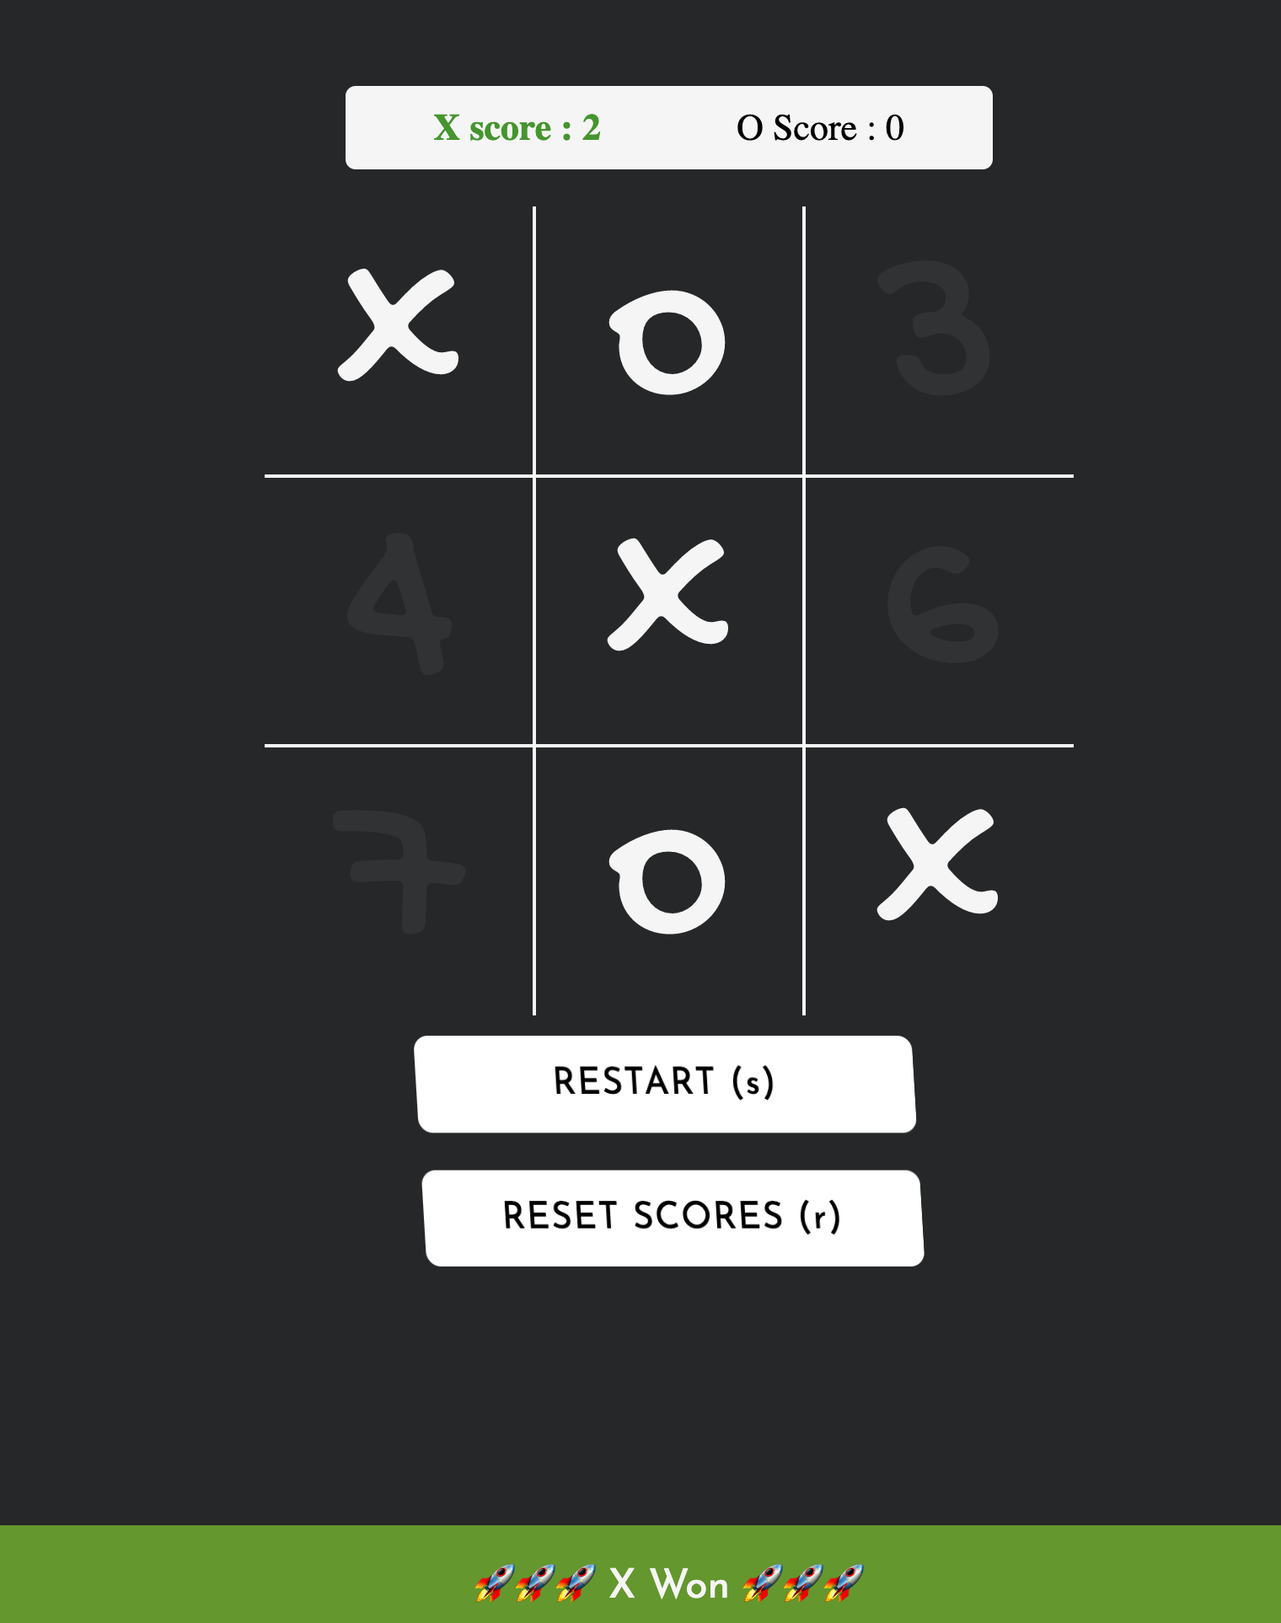
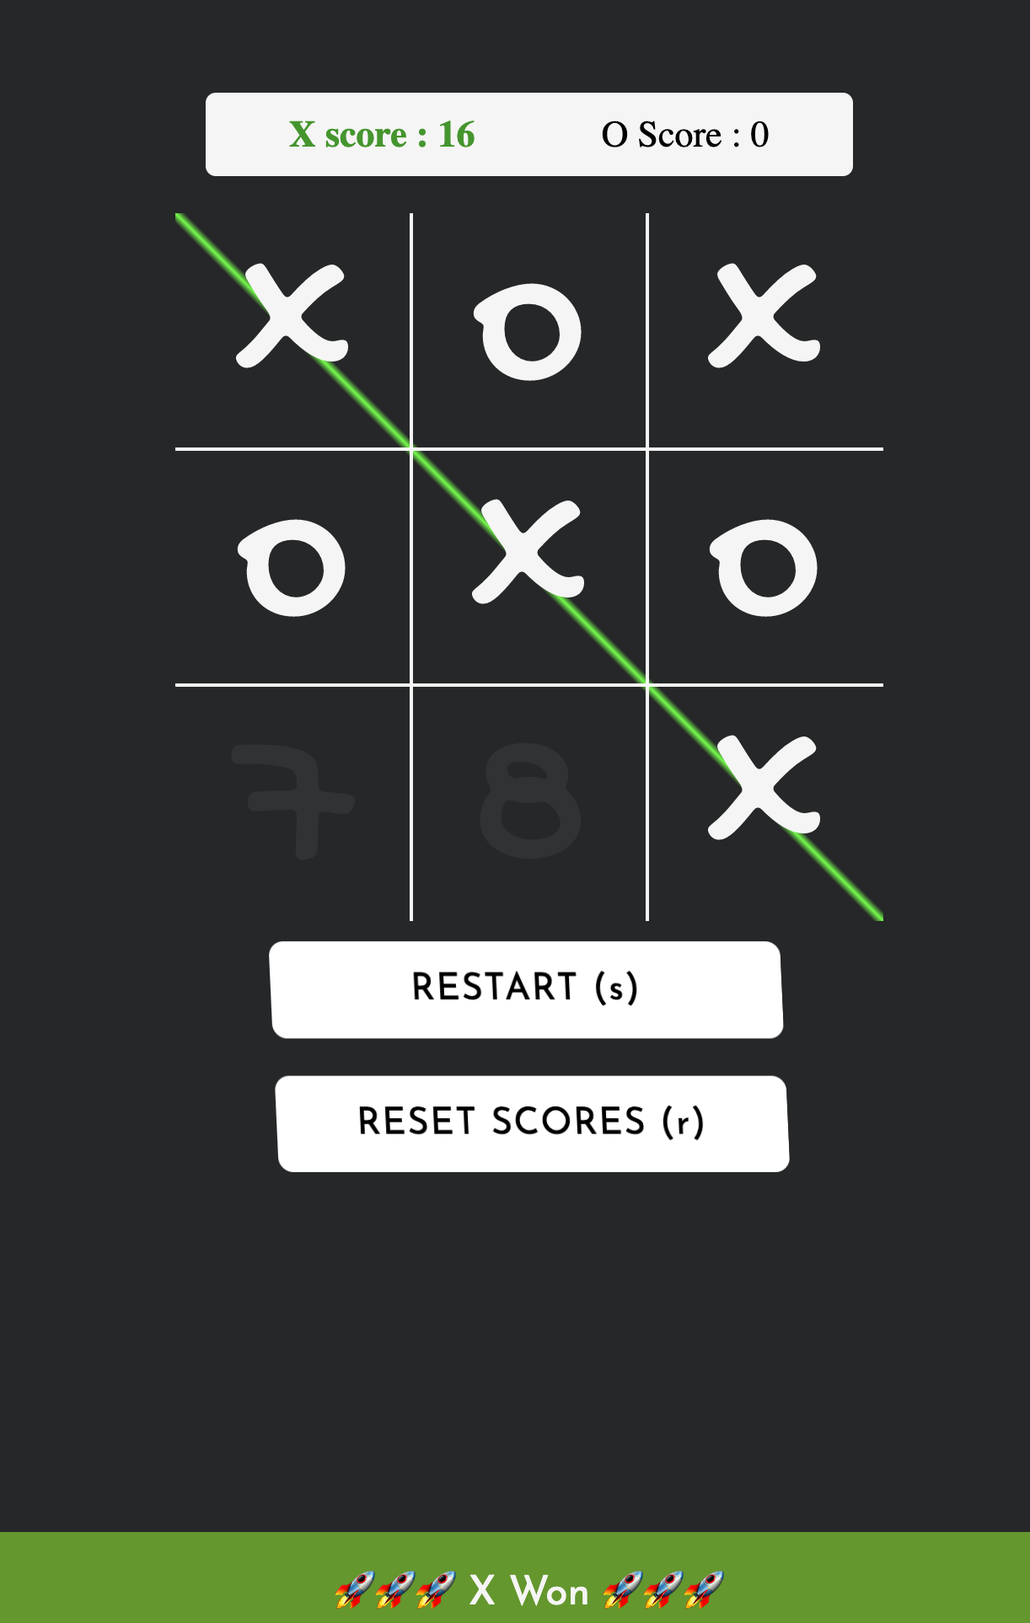
fixed cross line bug

diff --git a/docs/js/app.530d15ed.js b/docs/js/app.530d15ed.js
@@ -1,0 +1,2 @@
+(function(e){function t(t){for(var s,i,o=t[0],a=t[1],u=t[2],d=0,f=[];d<o.length;d++)i=o[d],Object.prototype.hasOwnProperty.call(r,i)&&r[i]&&f.push(r[i][0]),r[i]=0;for(s in a)Object.prototype.hasOwnProperty.call(a,s)&&(e[s]=a[s]);l&&l(t);while(f.length)f.shift()();return c.push.apply(c,u||[]),n()}function n(){for(var e,t=0;t<c.length;t++){for(var n=c[t],s=!0,o=1;o<n.length;o++){var a=n[o];0!==r[a]&&(s=!1)}s&&(c.splice(t--,1),e=i(i.s=n[0]))}return e}var s={},r={app:0},c=[];function i(t){if(s[t])return s[t].exports;var n=s[t]={i:t,l:!1,exports:{}};return e[t].call(n.exports,n,n.exports,i),n.l=!0,n.exports}i.m=e,i.c=s,i.d=function(e,t,n){i.o(e,t)||Object.defineProperty(e,t,{enumerable:!0,get:n})},i.r=function(e){"undefined"!==typeof Symbol&&Symbol.toStringTag&&Object.defineProperty(e,Symbol.toStringTag,{value:"Module"}),Object.defineProperty(e,"__esModule",{value:!0})},i.t=function(e,t){if(1&t&&(e=i(e)),8&t)return e;if(4&t&&"object"===typeof e&&e&&e.__esModule)return e;var n=Object.create(null);if(i.r(n),Object.defineProperty(n,"default",{enumerable:!0,value:e}),2&t&&"string"!=typeof e)for(var s in e)i.d(n,s,function(t){return e[t]}.bind(null,s));return n},i.n=function(e){var t=e&&e.__esModule?function(){return e["default"]}:function(){return e};return i.d(t,"a",t),t},i.o=function(e,t){return Object.prototype.hasOwnProperty.call(e,t)},i.p="https://ozkanozdemir.github.io/tic-tac-toe-with-vue3/";var o=window["webpackJsonp"]=window["webpackJsonp"]||[],a=o.push.bind(o);o.push=t,o=o.slice();for(var u=0;u<o.length;u++)t(o[u]);var l=a;c.push([0,"chunk-vendors"]),n()})({0:function(e,t,n){e.exports=n("56d7")},"0f67":function(e,t,n){},"118f":function(e,t,n){"use strict";n("d70c")},"14f6":function(e,t,n){},"1eda":function(e,t,n){},"490a":function(e,t,n){"use strict";n("1eda")},"4c69":function(e,t,n){"use strict";n("14f6")},"56d7":function(e,t,n){"use strict";n.r(t);n("e260"),n("e6cf"),n("cca6"),n("a79d"),n("d3b7"),n("caad"),n("25f0");var s=n("7a23"),r=n("5502");function c(e,t,n,r,c,i){var o=Object(s["q"])("Game");return Object(s["k"])(),Object(s["c"])(o)}var i={class:"game"},o={class:"button-container"},a=Object(s["g"])(" RESET SCORES (r) ");function u(e,t,n,r,c,u){var l=Object(s["q"])("Help"),d=Object(s["q"])("Scores"),f=Object(s["q"])("Board"),g=Object(s["q"])("Message"),O=Object(s["q"])("IButton");return Object(s["k"])(),Object(s["e"])("div",i,[Object(s["h"])(l),Object(s["h"])(d),Object(s["h"])(f),Object(s["h"])(g),Object(s["f"])("div",o,[!e.started||e.finished?(Object(s["k"])(),Object(s["c"])(O,{key:0,onClick:e.startGame},{default:Object(s["t"])((function(){return[Object(s["g"])(Object(s["r"])(e.finished?"RESTART":"START")+" (s) ",1)]})),_:1},8,["onClick"])):Object(s["d"])("",!0),!e.started||e.finished?(Object(s["k"])(),Object(s["c"])(O,{key:1,onClick:e.resetScores},{default:Object(s["t"])((function(){return[a]})),_:1},8,["onClick"])):Object(s["d"])("",!0)])])}var l=n("5530"),d=(n("4de4"),n("d81d"),n("2532"),n("2909")),f=(n("ddb0"),["onClick"]),g=["data-number"];function O(e,t,n,r,c,i){return Object(s["k"])(),Object(s["e"])("div",{class:Object(s["j"])(["board",e.crossClass])},[(Object(s["k"])(!0),Object(s["e"])(s["a"],null,Object(s["o"])(Object(d["a"])(Array(9).keys()),(function(e){return Object(s["k"])(),Object(s["e"])("div",{class:"cell",key:e,onClick:function(t){return i.cellClicked(e)}},[Object(s["f"])("span",null,Object(s["r"])(i.getCellSign(e)),1),Object(s["f"])("div",{class:"cell-number","data-number":e+1},null,8,g)],8,f)})),128))],2)}n("7db0");var b={name:"Board",data:function(){return{processing:!1}},computed:Object(l["a"])({},Object(r["c"])(["cells","finished","crossClass","sign","signO","signX","started"])),methods:Object(l["a"])(Object(l["a"])({},Object(r["b"])(["addCell","setSign"])),{},{cellClicked:function(e){var t=this;if(this.started&&!this.finished&&!this.processing){var n=this.cells.find((function(t){return t.order===e}));n||(this.processing=!0,this.addCell({order:e,sign:this.sign}),this.setSign(this.sign===this.signX?this.signO:this.signX),setTimeout((function(){t.processing=!1}),333))}},getCellSign:function(e){var t=this.cells.find((function(t){return t.order===e}));return t?t.sign:""}}),mounted:function(){var e=this;document.addEventListener("keydown",(function(t){var n=parseInt(t.key);n>0&&n<10&&e.cellClicked(n-1)}))}},m=(n("8f28"),n("6b0d")),h=n.n(m);const j=h()(b,[["render",O],["__scopeId","data-v-1519ca62"]]);var S=j;function p(e,t,n,r,c,i){return e.message?(Object(s["k"])(),Object(s["e"])("div",{key:0,class:Object(s["j"])(["message",{"bg-danger":"danger"===e.messageStatus,"bg-success":"success"===e.messageStatus}])},Object(s["r"])(e.message),3)):Object(s["d"])("",!0)}var v={name:"Message",computed:Object(l["a"])({},Object(r["c"])(["message","messageStatus"]))};n("e7de");const k=h()(v,[["render",p],["__scopeId","data-v-3148eeca"]]);var C=k,y={class:"scores"};function w(e,t,n,r,c,i){return Object(s["k"])(),Object(s["e"])("div",y,[Object(s["f"])("span",{class:Object(s["j"])({active:e.sign===e.signX})}," X score : "+Object(s["r"])(e.xScore),3),Object(s["f"])("span",{class:Object(s["j"])({active:e.sign===e.signO})}," O Score : "+Object(s["r"])(e.oScore),3)])}var M={name:"Scores",computed:Object(l["a"])({},Object(r["c"])(["xScore","oScore","sign","signX","signO"]))};n("f02e");const x=h()(M,[["render",w],["__scopeId","data-v-1fd18ba4"]]);var X=x,_=function(e){return Object(s["m"])("data-v-765e3ba2"),e=e(),Object(s["l"])(),e},I={class:"help"},G=_((function(){return Object(s["f"])("svg",{xmlns:"http://www.w3.org/2000/svg",class:"h-6 w-6",fill:"none",viewBox:"0 0 24 24",stroke:"currentColor","stroke-width":"2"},[Object(s["f"])("path",{"stroke-linecap":"round","stroke-linejoin":"round",d:"M13 16h-1v-4h-1m1-4h.01M21 12a9 9 0 11-18 0 9 9 0 0118 0z"})],-1)})),T=_((function(){return Object(s["f"])("div",{class:"help-text"}," You can use the number keys on the keyboard while playing. ",-1)})),W=[G,T];function B(e,t,n,r,c,i){return Object(s["k"])(),Object(s["e"])("div",I,W)}var F={name:"Help"};n("4c69");const P=h()(F,[["render",B],["__scopeId","data-v-765e3ba2"]]);var q=P;function E(e,t,n,r,c,i){return Object(s["k"])(),Object(s["e"])("button",null,[Object(s["p"])(e.$slots,"default")])}var R={name:"IButton"};n("9aa2");const A=h()(R,[["render",E]]);var z=A,H={name:"Game",components:{Board:S,Help:q,IButton:z,Message:C,Scores:X},watch:{cells:{handler:function(e){var t=this,n=e.filter((function(e){return e.sign===t.signX})),s=n.map((function(e){return e.order})),r=e.filter((function(e){return e.sign===t.signO})),c=r.map((function(e){return e.order}));this.winnerControl(s)?(this.setMessage("🚀🚀🚀 X Won 🚀🚀🚀"),this.setMessageStatus("success"),this.setFinished(!0),this.setSign(this.signX),this.incrementXScore()):this.winnerControl(c)?(this.setMessage("🚀🚀🚀 O Won 🚀🚀🚀"),this.setMessageStatus("success"),this.setFinished(!0),this.setSign(this.signO),this.incrementOScore()):e.length>=9&&(this.setMessage("Game Over. Nobody Won..."),this.setMessageStatus("danger"),this.setFinished(!0))},deep:!0}},computed:Object(l["a"])({},Object(r["c"])(["cells","started","finished","signX","signO","winningOrder","winningOrders"])),methods:Object(l["a"])(Object(l["a"])({},Object(r["b"])(["incrementOScore","incrementXScore","resetScores","setCrossClass","setFinished","setMessage","setMessageStatus","setSign","setWinningOrder","startGame","winnerControl"])),{},{winnerControl:function(e){var t=this;return this.winningOrders.some((function(n){var s=n.every((function(t){return e.includes(t)}));return s&&(console.log("1",n),t.setWinningOrder(n)),s}))}}),mounted:function(){var e=this;document.addEventListener("keydown",(function(t){"r"===t.key?e.resetScores():"s"===t.key&&e.startGame()}))}};n("490a");const J=h()(H,[["render",u],["__scopeId","data-v-420765c4"]]);var L=J,N={name:"App",components:{Game:L}};n("118f");const Y=h()(N,[["render",c]]);var $=Y,D=Object(r["a"])({state:function(){return{cells:[],crossClass:{},finished:!1,message:"",oScore:parseInt(localStorage.getItem("oScore")||0),messageStatus:"danger",sign:"x",signO:"o",signX:"x",started:!1,winningOrder:[],winningOrders:[[0,1,2],[3,4,5],[6,7,8],[0,3,6],[1,4,7],[2,5,8],[0,4,8],[2,4,6]],xScore:parseInt(localStorage.getItem("xScore")||0)}},getters:{cells:function(e){return e.cells},crossClass:function(e){var t=e.winningOrder;return t&&t.length>0?{"cross-line-012":t.every((function(e){return[0,1,2].includes(e)})),"cross-line-345":t.every((function(e){return[3,4,5].includes(e)})),"cross-line-678":t.every((function(e){return[6,7,8].includes(e)})),"cross-line-036":t.every((function(e){return[0,3,6].includes(e)})),"cross-line-147":t.every((function(e){return[1,4,7].includes(e)})),"cross-line-258":t.every((function(e){return[2,5,8].includes(e)})),"cross-line-048":t.every((function(e){return[0,4,8].includes(e)})),"cross-line-246":t.every((function(e){return[2,4,6].includes(e)}))}:{}},finished:function(e){return e.finished},message:function(e){return e.message},oScore:function(e){return e.oScore},messageStatus:function(e){return e.messageStatus},sign:function(e){return e.sign},signO:function(e){return e.signO},signX:function(e){return e.signX},started:function(e){return e.started},winningOrder:function(e){return e.winningOrder},winningOrders:function(e){return e.winningOrders},xScore:function(e){return e.xScore}},mutations:{addCell:function(e,t){e.cells.push(t)},cellClicked:function(e,t){e.started&&!e.finished&&(e.cells.push({order:t,sign:e.sign}),e.sign=e.sign===e.signX?e.signO:e.signX)},incrementOScore:function(e){e.oScore++,localStorage.setItem("oScore",e.oScore.toString())},incrementXScore:function(e){e.xScore++,localStorage.setItem("xScore",e.xScore.toString())},resetScores:function(e){e.oScore=0,e.xScore=0,localStorage.setItem("oScore","0"),localStorage.setItem("xScore","0")},setCrossClass:function(e,t){e.crossClass=t},setFinished:function(e,t){e.finished=t},setMessage:function(e,t){e.message=t},setMessageStatus:function(e,t){e.messageStatus=t},setSign:function(e,t){e.sign=t},setWinningOrder:function(e,t){console.log("2",t),e.winningOrder=t},startGame:function(e){e.message="",e.sign=e.signX,e.started=!0,e.finished=!1,e.winningOrder=[],e.crossClass={},e.cells=[]}},actions:{addCell:function(e,t){e.commit("addCell",t)},cellClicked:function(e,t){e.commit("cellClicked",t)},getCellSign:function(e,t){e.commit("getCellSign",t)},incrementOScore:function(e){e.commit("incrementOScore")},incrementXScore:function(e){e.commit("incrementXScore")},resetScores:function(e){e.commit("resetScores")},setCrossClass:function(e,t){e.commit("setCrossClass",t)},setFinished:function(e,t){e.commit("setFinished",t)},setMessage:function(e,t){e.commit("setMessage",t)},setMessageStatus:function(e,t){e.commit("setMessageStatus",t)},setSign:function(e,t){e.commit("setSign",t)},setWinningOrder:function(e,t){e.commit("setWinningOrder",t)},startGame:function(e){e.commit("startGame")},winnerControl:function(e,t){e.commit("winnerControl",t)}}}),K=Object(s["b"])($);K.use(D),K.mount("#app")},"59d9":function(e,t,n){},"8f28":function(e,t,n){"use strict";n("0f67")},"9aa2":function(e,t,n){"use strict";n("b8b1")},b19c:function(e,t,n){},b8b1:function(e,t,n){},d70c:function(e,t,n){},e7de:function(e,t,n){"use strict";n("59d9")},f02e:function(e,t,n){"use strict";n("b19c")}});
+//# sourceMappingURL=app.530d15ed.js.map

diff --git a/docs/css/app.bb10e1e5.css b/docs/css/app.bb10e1e5.css
@@ -1,0 +1,1 @@
+@import url(https://fonts.googleapis.com/css2?family=Gochi+Hand&display=swap);@import url(https://fonts.googleapis.com/css2?family=Josefin+Sans:wght@400;700&display=swap);.board[data-v-1519ca62]{display:flex;flex-direction:row;flex-wrap:wrap;width:420px;height:420px;overflow:hidden;position:relative}.cell[data-v-1519ca62]{position:relative;font-family:Gochi Hand,cursive;width:140px;height:140px;outline:1px solid #f5f5f5;cursor:pointer;display:flex;justify-content:center;align-items:center;font-size:130px;color:#f5f5f5}.cell-number[data-v-1519ca62]{position:absolute;width:100%;height:100%}.cell span:empty+.cell-number[data-v-1519ca62]:after{display:flex;justify-content:center;content:attr(data-number);color:hsla(0,0%,100%,.05)}.cross-line[data-v-1519ca62]{z-index:999;position:absolute;width:100%;height:100%}.cross-line-012[data-v-1519ca62]{background:linear-gradient(180deg,transparent calc(16% - 4px),#0f0,transparent calc(16% + 4px))}.cross-line-345[data-v-1519ca62]{background:linear-gradient(0deg,transparent calc(50% - 4px),#0f0,transparent calc(50% + 4px))}.cross-line-678[data-v-1519ca62]{background:linear-gradient(0deg,transparent calc(16% - 4px),#0f0,transparent calc(16% + 4px))}.cross-line-036[data-v-1519ca62]{background:linear-gradient(90deg,transparent calc(16% - 4px),#0f0,transparent calc(16% + 4px))}.cross-line-147[data-v-1519ca62]{background:linear-gradient(270deg,transparent calc(50% - 4px),#0f0,transparent calc(50% + 4px))}.cross-line-258[data-v-1519ca62]{background:linear-gradient(270deg,transparent calc(16% - 4px),#0f0,transparent calc(16% + 4px))}.cross-line-048[data-v-1519ca62]{background:linear-gradient(to top right,transparent calc(50% - 4px),#0f0,transparent calc(50% + 4px))}.cross-line-246[data-v-1519ca62]{background:linear-gradient(to top left,transparent calc(50% - 4px),#0f0,transparent calc(50% + 4px))}.message[data-v-3148eeca]{width:100%;display:flex;justify-content:center;align-items:center;bottom:0;position:fixed;padding:16px;font-size:24px;font-family:Josefin Sans,sans-serif;font-weight:400;color:#f5f5f5;line-height:42px}.bg-danger[data-v-3148eeca]{background-color:#ff1731}.bg-success[data-v-3148eeca]{background-color:#529a08}.scores[data-v-1fd18ba4]{display:flex;justify-content:space-around;width:360px;padding:12px;background-color:#f5f5f5;margin-bottom:22px;font-size:22px;border-radius:6px}.scores .active[data-v-1fd18ba4]{cursor:default;color:#0e980e;font-weight:700}.help[data-v-765e3ba2]{position:absolute;left:-4px;top:0;width:36px;height:36px;background-color:#f5f5f5;border-radius:6px;padding:6px;cursor:pointer;overflow:hidden}.help svg[data-v-765e3ba2]{width:36px;height:36px}.help[data-v-765e3ba2]:active,.help[data-v-765e3ba2]:hover{color:#ff1731;width:100%;display:flex}.help-text[data-v-765e3ba2]{margin:6 24px;width:100%;display:flex;justify-content:center;align-items:center;font-size:20px;font-family:Josefin Sans,sans-serif}.button-container{display:flex;flex-direction:column;transform:rotatex(10deg);-webkit-animation:rotateAngle 4s linear infinite;animation:rotateAngle 4s linear infinite}button{font-family:Josefin Sans,sans-serif;display:block;position:relative;margin:.5em 0;padding:.8em 2.2em;cursor:pointer;background:#fff;border:none;border-radius:.4em;font-size:1.4em;font-weight:500;letter-spacing:.04em;mix-blend-mode:color-dodge;perspective:500px;transform-style:preserve-3d}button:after,button:before{--z:0px;position:absolute;top:0;left:0;display:block;content:"";width:100%;height:100%;opacity:0;mix-blend-mode:inherit;border-radius:inherit;transform-style:preserve-3d;transform:translate3d(calc(var(--z)*0px),calc(var(--z)*0px),calc(var(--z)*0px))}button span{mix-blend-mode:none;display:block}button:after{background-color:#5d00ff}button:before{background-color:#ff1731}button:hover{background-color:#fff65b;transition:background .3s .1s}button:hover:before{--z:0.04}button:hover:after,button:hover:before{-webkit-animation:translateWobble 2.2s ease forwards;animation:translateWobble 2.2s ease forwards}button:hover:after{--z:-0.06}@-webkit-keyframes rotateAngle{0%{transform:rotateY(0deg) rotateX(10deg);-webkit-animation-timing-function:cubic-bezier(.61,1,.88,1);animation-timing-function:cubic-bezier(.61,1,.88,1)}25%{transform:rotateY(20deg) rotateX(10deg)}50%{transform:rotateY(0deg) rotateX(10deg);-webkit-animation-timing-function:cubic-bezier(.61,1,.88,1);animation-timing-function:cubic-bezier(.61,1,.88,1)}75%{transform:rotateY(-20deg) rotateX(10deg)}to{transform:rotateY(0deg) rotateX(10deg)}}@keyframes rotateAngle{0%{transform:rotateY(0deg) rotateX(10deg);-webkit-animation-timing-function:cubic-bezier(.61,1,.88,1);animation-timing-function:cubic-bezier(.61,1,.88,1)}25%{transform:rotateY(20deg) rotateX(10deg)}50%{transform:rotateY(0deg) rotateX(10deg);-webkit-animation-timing-function:cubic-bezier(.61,1,.88,1);animation-timing-function:cubic-bezier(.61,1,.88,1)}75%{transform:rotateY(-20deg) rotateX(10deg)}to{transform:rotateY(0deg) rotateX(10deg)}}@-webkit-keyframes translateWobble{0%{opacity:0;transform:translate3d(calc(var(--z)*0px),calc(var(--z)*0px),calc(var(--z)*0px))}16%{transform:translate3d(calc(var(--z)*160px),calc(var(--z)*160px),calc(var(--z)*160px))}28%{opacity:1;transform:translate3d(calc(var(--z)*70px),calc(var(--z)*70px),calc(var(--z)*70px))}44%{transform:translate3d(calc(var(--z)*130px),calc(var(--z)*130px),calc(var(--z)*130px))}59%{transform:translate3d(calc(var(--z)*85px),calc(var(--z)*85px),calc(var(--z)*85px))}73%{transform:translate3d(calc(var(--z)*110px),calc(var(--z)*110px),calc(var(--z)*110px))}88%{opacity:1;transform:translate3d(calc(var(--z)*90px),calc(var(--z)*90px),calc(var(--z)*90px))}to{opacity:1;transform:translate3d(calc(var(--z)*100px),calc(var(--z)*100px),calc(var(--z)*100px))}}@keyframes translateWobble{0%{opacity:0;transform:translate3d(calc(var(--z)*0px),calc(var(--z)*0px),calc(var(--z)*0px))}16%{transform:translate3d(calc(var(--z)*160px),calc(var(--z)*160px),calc(var(--z)*160px))}28%{opacity:1;transform:translate3d(calc(var(--z)*70px),calc(var(--z)*70px),calc(var(--z)*70px))}44%{transform:translate3d(calc(var(--z)*130px),calc(var(--z)*130px),calc(var(--z)*130px))}59%{transform:translate3d(calc(var(--z)*85px),calc(var(--z)*85px),calc(var(--z)*85px))}73%{transform:translate3d(calc(var(--z)*110px),calc(var(--z)*110px),calc(var(--z)*110px))}88%{opacity:1;transform:translate3d(calc(var(--z)*90px),calc(var(--z)*90px),calc(var(--z)*90px))}to{opacity:1;transform:translate3d(calc(var(--z)*100px),calc(var(--z)*100px),calc(var(--z)*100px))}}.game[data-v-420765c4]{display:flex;flex-direction:column;align-items:center;margin-top:60px}body{background-color:#252728}

diff --git a/docs/index.html b/docs/index.html
@@ -1,1 +1,1 @@
-<!DOCTYPE html><html lang=""><head><meta charset="utf-8"><meta http-equiv="X-UA-Compatible" content="IE=edge"><meta name="viewport" content="width=device-width,initial-scale=1"><link rel="icon" href="https://ozkanozdemir.github.io/tic-tac-toe-with-vue3/favicon.ico"><title>tic-tac-toe-with-vue-3</title><link href="https://ozkanozdemir.github.io/tic-tac-toe-with-vue3/css/app.c4f78dec.css" rel="preload" as="style"><link href="https://ozkanozdemir.github.io/tic-tac-toe-with-vue3/js/app.2bbb4f10.js" rel="preload" as="script"><link href="https://ozkanozdemir.github.io/tic-tac-toe-with-vue3/js/chunk-vendors.74a3f67e.js" rel="preload" as="script"><link href="https://ozkanozdemir.github.io/tic-tac-toe-with-vue3/css/app.c4f78dec.css" rel="stylesheet"></head><body><noscript><strong>We're sorry but tic-tac-toe-with-vue-3 doesn't work properly without JavaScript enabled. Please enable it to continue.</strong></noscript><div id="app"></div><script src="https://ozkanozdemir.github.io/tic-tac-toe-with-vue3/js/chunk-vendors.74a3f67e.js"></script><script src="https://ozkanozdemir.github.io/tic-tac-toe-with-vue3/js/app.2bbb4f10.js"></script></body></html>
+<!DOCTYPE html><html lang=""><head><meta charset="utf-8"><meta http-equiv="X-UA-Compatible" content="IE=edge"><meta name="viewport" content="width=device-width,initial-scale=1"><link rel="icon" href="https://ozkanozdemir.github.io/tic-tac-toe-with-vue3/favicon.ico"><title>tic-tac-toe-with-vue-3</title><link href="https://ozkanozdemir.github.io/tic-tac-toe-with-vue3/css/app.bb10e1e5.css" rel="preload" as="style"><link href="https://ozkanozdemir.github.io/tic-tac-toe-with-vue3/js/app.530d15ed.js" rel="preload" as="script"><link href="https://ozkanozdemir.github.io/tic-tac-toe-with-vue3/js/chunk-vendors.74a3f67e.js" rel="preload" as="script"><link href="https://ozkanozdemir.github.io/tic-tac-toe-with-vue3/css/app.bb10e1e5.css" rel="stylesheet"></head><body><noscript><strong>We're sorry but tic-tac-toe-with-vue-3 doesn't work properly without JavaScript enabled. Please enable it to continue.</strong></noscript><div id="app"></div><script src="https://ozkanozdemir.github.io/tic-tac-toe-with-vue3/js/chunk-vendors.74a3f67e.js"></script><script src="https://ozkanozdemir.github.io/tic-tac-toe-with-vue3/js/app.530d15ed.js"></script></body></html>

diff --git a/src/components/Board.vue b/src/components/Board.vue
@@ -82,8 +82,8 @@ export default {
   display: flex;
   flex-direction: row;
   flex-wrap: wrap;
-  width: 480px;
-  height: 480px;
+  width: 420px;
+  height: 420px;
   overflow: hidden;
   position: relative;
 }
@@ -91,14 +91,14 @@ export default {
 .cell {
   position: relative;
   font-family: 'Gochi Hand', cursive;
-  width: 160px;
-  height: 160px;
+  width: 140px;
+  height: 140px;
   outline: 1px solid whitesmoke;
   cursor: pointer;
   display: flex;
   justify-content: center;
   align-items: center;
-  font-size: 140px;
+  font-size: 130px;
   color: whitesmoke;
 }
 
@@ -134,7 +134,7 @@ export default {
 }
 
 .cross-line-036 {
-  background: linear-gradient(to left, rgba(0, 0, 0, 0) calc(16% - 4px), lime, rgba(0, 0, 0, 0) calc(16% + 4px))
+  background: linear-gradient(to right, rgba(0, 0, 0, 0) calc(16% - 4px), lime, rgba(0, 0, 0, 0) calc(16% + 4px))
 }
 
 .cross-line-147 {
@@ -142,7 +142,7 @@ export default {
 }
 
 .cross-line-258 {
-  background: linear-gradient(to right, rgba(0, 0, 0, 0) calc(16% - 4px), lime, rgba(0, 0, 0, 0) calc(16% + 4px))
+  background: linear-gradient(to left, rgba(0, 0, 0, 0) calc(16% - 4px), lime, rgba(0, 0, 0, 0) calc(16% + 4px))
 }
 
 .cross-line-048 {

diff --git a/src/main.js b/src/main.js
@@ -34,7 +34,7 @@ const store = createStore({
 		crossClass : state => {
 			const winningOrder = state.winningOrder;
 			if (winningOrder && winningOrder.length > 0) {
-				state.setCrossClass = {
+				return {
 					'cross-line-012': winningOrder.every(w => [0, 1, 2].includes(w)),
 					'cross-line-345': winningOrder.every(w => [3, 4, 5].includes(w)),
 					'cross-line-678': winningOrder.every(w => [6, 7, 8].includes(w)),
@@ -45,6 +45,7 @@ const store = createStore({
 					'cross-line-246': winningOrder.every(w => [2, 4, 6].includes(w)),
 				}
 			}
+			return {}
 		},
 		finished : state => state.finished,
 		message : state => state.message,
@@ -100,6 +101,7 @@ const store = createStore({
 			state.sign = payload
 		},
 		setWinningOrder(state, payload) {
+			console.log('2', payload)
 			state.winningOrder = payload
 		},
 		startGame(state) {

diff --git a/src/components/Game.vue b/src/components/Game.vue
@@ -96,6 +96,7 @@ export default {
       return this.winningOrders.some(w => {
         const result = w.every(value => orders.includes(value))
         if (result) {
+          console.log('1', w)
           this.setWinningOrder(w)
         }
         return result
